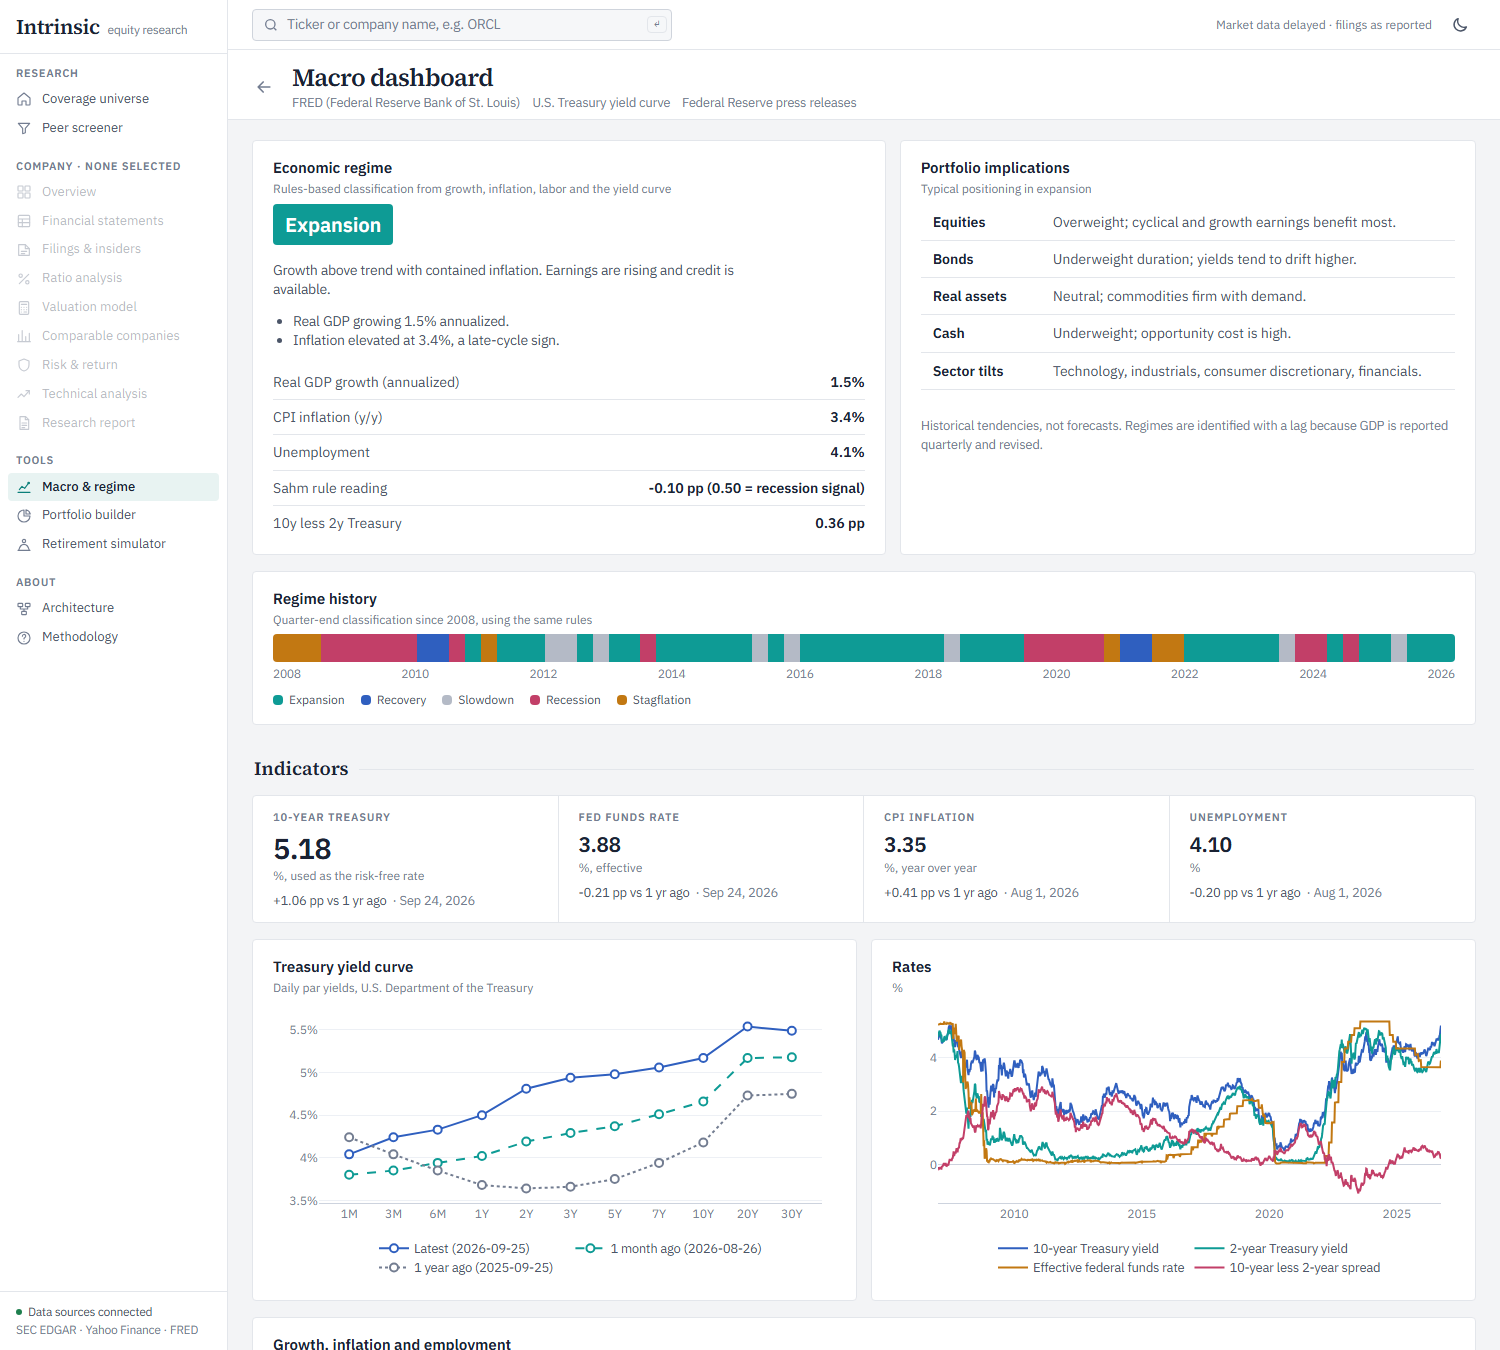
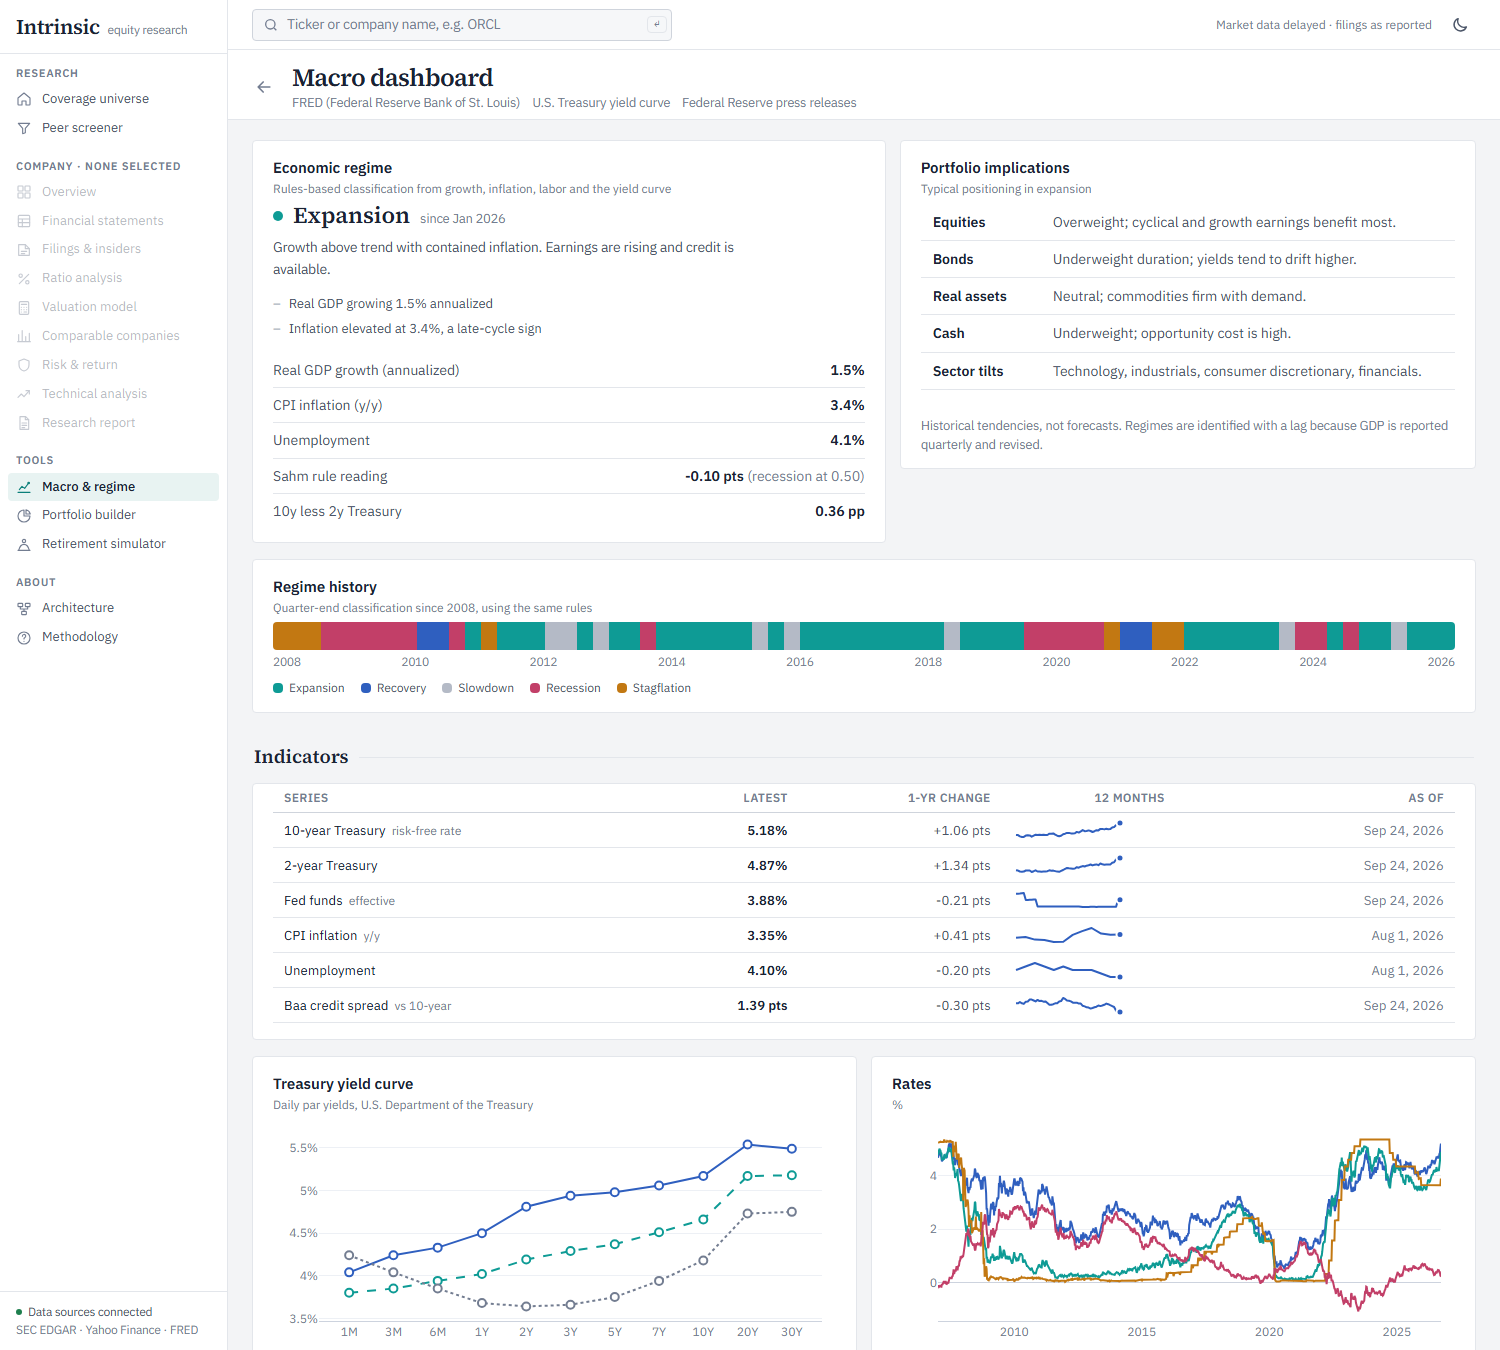
style: tone down macro page

diff --git a/app/macro/page.tsx b/app/macro/page.tsx
@@ -2,7 +2,7 @@
 import { useEffect, useMemo, useState } from "react";
 import Plot from "@/components/Plot";
 import { Content, Section, TitleBar } from "@/components/Shell";
-import { Card, Delta, KV, Kpi, Loading, Note, Tw } from "@/components/ui";
+import { Card, KV, Loading, Note, Sparkline, Tw } from "@/components/ui";
 import { getMacro } from "@/lib/api";
 import { figMacro, figYieldCurve, PAL } from "@/lib/charts";
 import { dLong, fN, ok } from "@/lib/format";
@@ -39,10 +39,18 @@ export default function Macro() {
   const now = useMemo(() => (m?.available && asOf ? classify(s, new Date().toISOString().slice(0, 10)) : null), [m, s, asOf]);
   const past = useMemo(() => (m?.available ? history(s) : []), [m, s]);
   const imp = now ? IMPLICATIONS[now.regime] : null;
-  const kpi = (id: string, title: string, unit: string) => {
-    const x = s[id], v = x?.latest?.[1], c = x?.chg1y;
-    return <Kpi key={id} title={title} unit={unit} value={ok(v) ? fN(v, 2) : "—"} delta={ok(c) ? <Delta v={null} text={`${c >= 0 ? "+" : ""}${c.toFixed(2)} pp vs 1 yr ago`} vs={x?.latest ? `· ${dLong(x.latest[0])}` : ""} /> : undefined} />;
-  };
+  // How long the current classification has held, from the quarterly history.
+  const since = useMemo(() => {
+    if (!past.length) return null;
+    const cur = past[past.length - 1].regime;
+    let k = past.length - 1;
+    while (k > 0 && past[k - 1].regime === cur) k--;
+    return new Date(past[k].date + "T12:00:00").toLocaleDateString("en-US", { month: "short", year: "numeric" });
+  }, [past]);
+  const INDICATORS: [string, string, string][] = [
+    ["DGS10", "10-year Treasury", "risk-free rate"], ["DGS2", "2-year Treasury", ""], ["DFF", "Fed funds", "effective"],
+    ["CPIAUCSL", "CPI inflation", "y/y"], ["UNRATE", "Unemployment", ""], ["BAA10Y", "Baa credit spread", "vs 10-year"],
+  ];
   return (
     <>
       <TitleBar title="Macro dashboard" back="/" sub={<><span>FRED (Federal Reserve Bank of St. Louis)</span><span>U.S. Treasury yield curve</span><span>Federal Reserve press releases</span></>} />
@@ -58,19 +66,23 @@ export default function Macro() {
           </Card>
         )}
         {now && imp && <>
-          <div className="grid gap-3.5 xl:grid-cols-[minmax(0,1.1fr)_minmax(0,1fr)]">
+          <div className="grid items-start gap-3.5 xl:grid-cols-[minmax(0,1.1fr)_minmax(0,1fr)]">
             <Card title="Economic regime" unit="Rules-based classification from growth, inflation, labor and the yield curve">
-              <div className="flex flex-wrap items-center gap-4 px-5 pb-3">
-                <span className="rounded px-3 py-1.5 text-[20px] font-semibold text-white" style={{ background: REGIME_COLOR[now.regime] }}>{now.regime}</span>
-                <span className="max-w-[60ch] text-[13.5px] text-ink-2">{imp.summary}</span>
+              <div className="px-5 pb-3">
+                <div className="flex items-baseline gap-2.5">
+                  <span className="inline-block h-2.5 w-2.5 -translate-y-[2px] rounded-full" style={{ background: REGIME_COLOR[now.regime] }} />
+                  <span className="font-serif text-[23px] leading-none font-semibold">{now.regime}</span>
+                  {since && <span className="text-[12.5px] text-ink-3">since {since}</span>}
+                </div>
+                <p className="mt-2.5 max-w-[60ch] text-[13.5px] leading-relaxed text-ink-2">{imp.summary}</p>
+                <ul className="mt-3 space-y-1 text-[13px] leading-relaxed text-ink-2">
+                  {now.reasons.map((r) => <li key={r} className="flex gap-2"><span className="text-ink-4">–</span>{r.charAt(0).toUpperCase() + r.slice(1)}</li>)}
+                </ul>
               </div>
-              <ul className="list-disc px-10 pb-3 text-[13.5px] text-ink-2">
-                {now.reasons.map((r) => <li key={r}>{r.charAt(0).toUpperCase() + r.slice(1)}.</li>)}
-              </ul>
               <KV rows={[
                 ["Real GDP growth (annualized)", ok(now.gdp) ? `${now.gdp.toFixed(1)}%` : "—"], ["CPI inflation (y/y)", ok(now.cpi) ? `${now.cpi.toFixed(1)}%` : "—"],
-                ["Unemployment", ok(now.unemp) ? `${now.unemp.toFixed(1)}%` : "—"], ["Sahm rule reading", ok(now.sahm) ? `${now.sahm >= 0 ? "+" : ""}${now.sahm.toFixed(2)} pp (0.50 = recession signal)` : "—"],
-                ["10y less 2y Treasury", ok(now.curve) ? `${now.curve.toFixed(2)} pp${now.curve < 0 ? " (inverted)" : ""}` : "—"],
+                ["Unemployment", ok(now.unemp) ? `${now.unemp.toFixed(1)}%` : "—"], ["Sahm rule reading", ok(now.sahm) ? <span key="s">{now.sahm >= 0 ? "+" : ""}{now.sahm.toFixed(2)} pts <span className="font-normal text-ink-3">(recession at 0.50)</span></span> : "—"],
+                ["10y less 2y Treasury", ok(now.curve) ? `${now.curve.toFixed(2)} pts${now.curve < 0 ? " (inverted)" : ""}` : "—"],
               ]} />
             </Card>
             <Card title="Portfolio implications" unit={`Typical positioning in ${now.regime.toLowerCase()}`}>
@@ -92,19 +104,35 @@ export default function Macro() {
         </>}
         {m?.available && <>
           <Section>Indicators</Section>
-          <div className="kpis sm:grid-cols-2 lg:grid-cols-4">
-            {kpi("DGS10", "10-Year Treasury", "%, used as the risk-free rate")}
-            {kpi("DFF", "Fed funds rate", "%, effective")}
-            {kpi("CPIAUCSL", "CPI inflation", "%, year over year")}
-            {kpi("UNRATE", "Unemployment", "%")}
-          </div>
+          <Card>
+            <Tw>
+              <table className="t dense">
+                <thead><tr><th>Series</th><th>Latest</th><th>1-yr change</th><th className="!text-center">12 months</th><th>As of</th></tr></thead>
+                <tbody>
+                  {INDICATORS.map(([id, label, note]) => {
+                    const x = s[id], latest = x?.latest, from = latest ? `${Number(latest[0].slice(0, 4)) - 1}${latest[0].slice(4)}` : "";
+                    const pts = (x?.obs ?? []).filter((o: [string, number]) => o[0] >= from).map((o: [string, number]) => o[1]);
+                    return (
+                      <tr key={id}>
+                        <td>{label}{note && <span className="ml-1.5 text-[12px] text-ink-3">{note}</span>}</td>
+                        <td className="font-semibold">{latest ? `${fN(latest[1], 2)}${id === "BAA10Y" ? " pts" : "%"}` : "—"}</td>
+                        <td className="text-ink-2">{ok(x?.chg1y) ? `${x.chg1y >= 0 ? "+" : ""}${x.chg1y.toFixed(2)} pts` : "—"}</td>
+                        <td className="c">{pts.length > 3 && <Sparkline data={pts} width={110} height={22} color="var(--c1)" />}</td>
+                        <td className="text-ink-3">{latest ? dLong(latest[0]) : ""}</td>
+                      </tr>
+                    );
+                  })}
+                </tbody>
+              </table>
+            </Tw>
+          </Card>
           <div className="grid gap-3.5 xl:grid-cols-2">
             {m.curve && <Card title="Treasury yield curve" unit="Daily par yields, U.S. Department of the Treasury"><div className="px-2 pb-2"><Plot fig={figYieldCurve(m.curve)} height={290} /></div></Card>}
             <Card title="Rates" unit="%"><div className="px-2 pb-2"><Plot fig={figMacro(s, ["DGS10", "DGS2", "DFF", "T10Y2Y"], [PAL.c1, PAL.c2, PAL.c3, PAL.c4])} height={290} /></div></Card>
           </div>
           <Card title="Growth, inflation and employment" unit="%"><div className="px-2 pb-2"><Plot fig={figMacro(s, ["A191RL1Q225SBEA", "CPIAUCSL", "UNRATE"], [PAL.c1, PAL.c4, PAL.c2])} height={280} /></div></Card>
           <div className="grid gap-3.5 lg:grid-cols-3">
-            <Card title="Credit spread" unit="Baa yield less 10-year Treasury, pp"><div className="px-2 pb-2"><Plot fig={figMacro(s, ["BAA10Y"], [PAL.c3])} height={240} /></div></Card>
+            <Card title="Credit spread" unit="Baa yield less 10-year Treasury, pts"><div className="px-2 pb-2"><Plot fig={figMacro(s, ["BAA10Y"], [PAL.c3])} height={240} /></div></Card>
             <Card title="Equity volatility" unit="CBOE Volatility Index"><div className="px-2 pb-2"><Plot fig={figMacro(s, ["VIXCLS"], [PAL.c1])} height={240} /></div></Card>
             <Card title="Federal Reserve" unit="Latest press releases">
               <ul className="px-5 pb-4">
